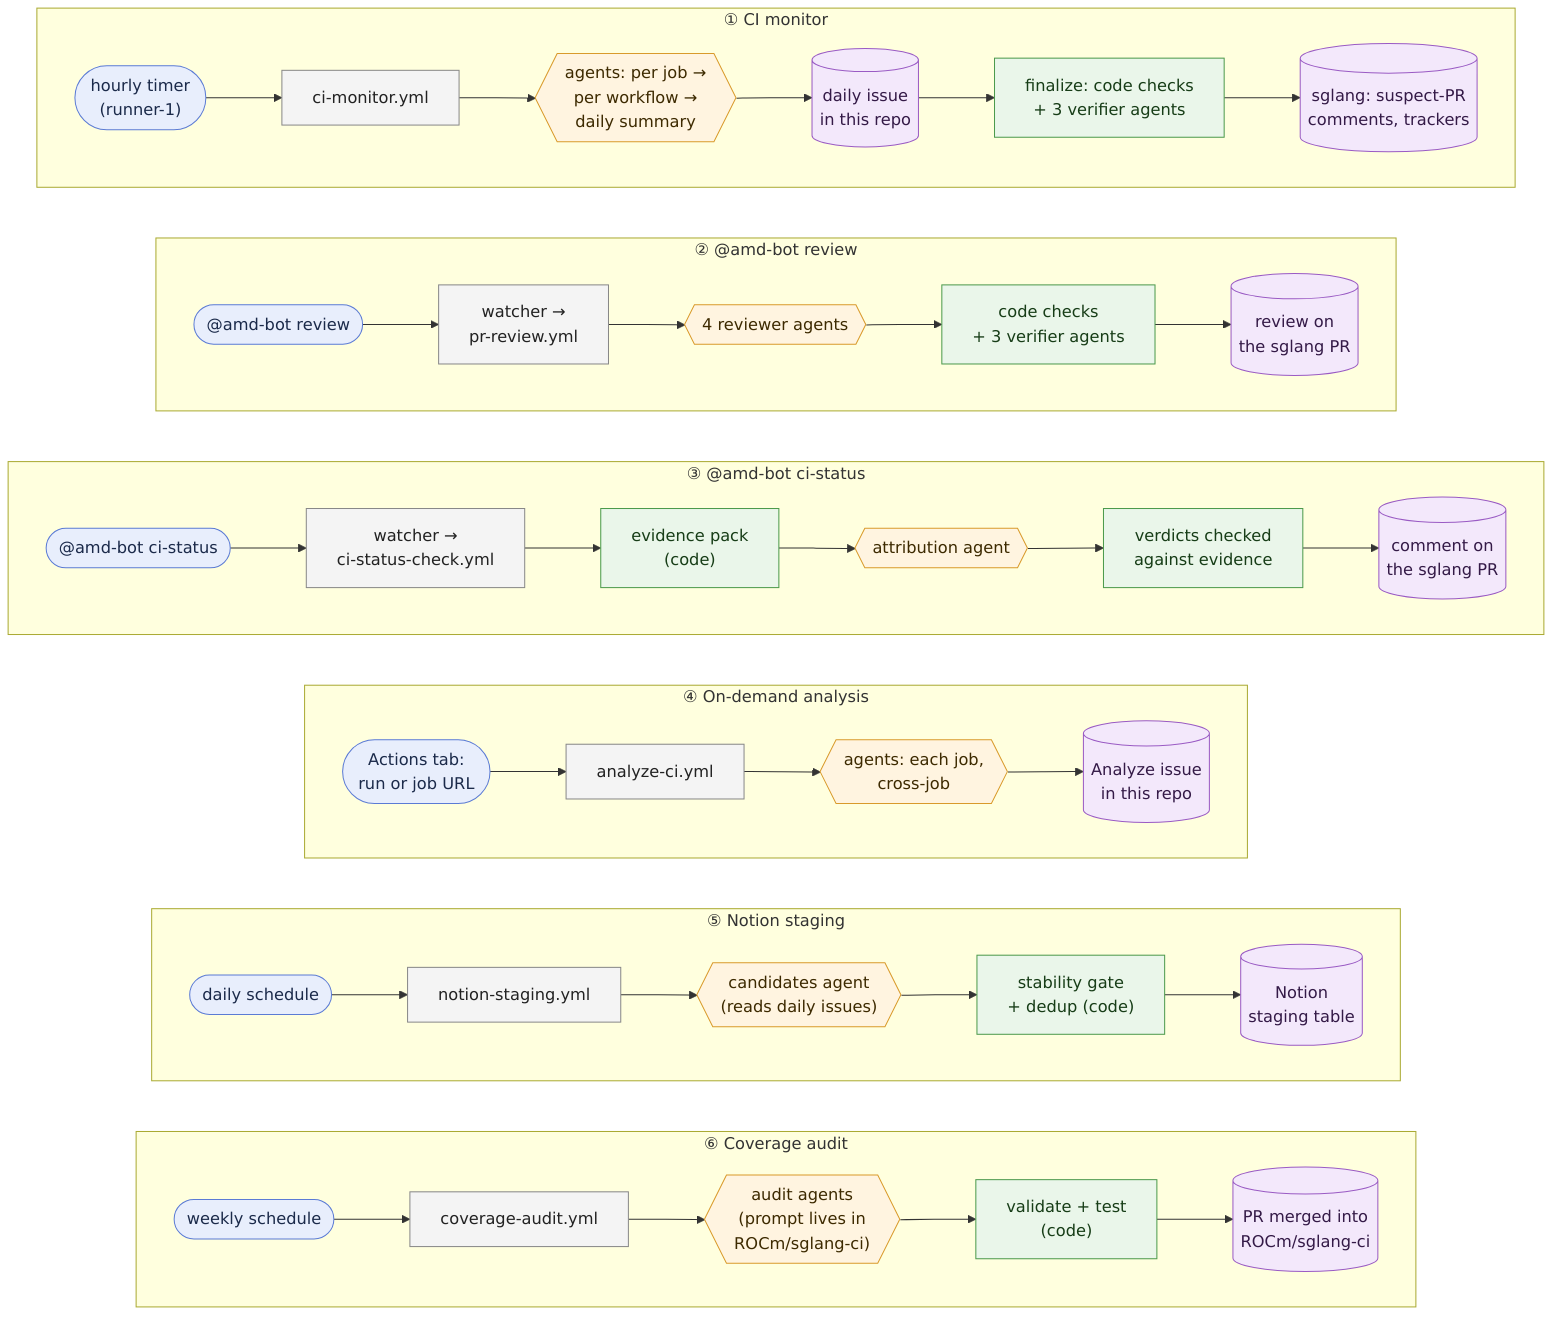
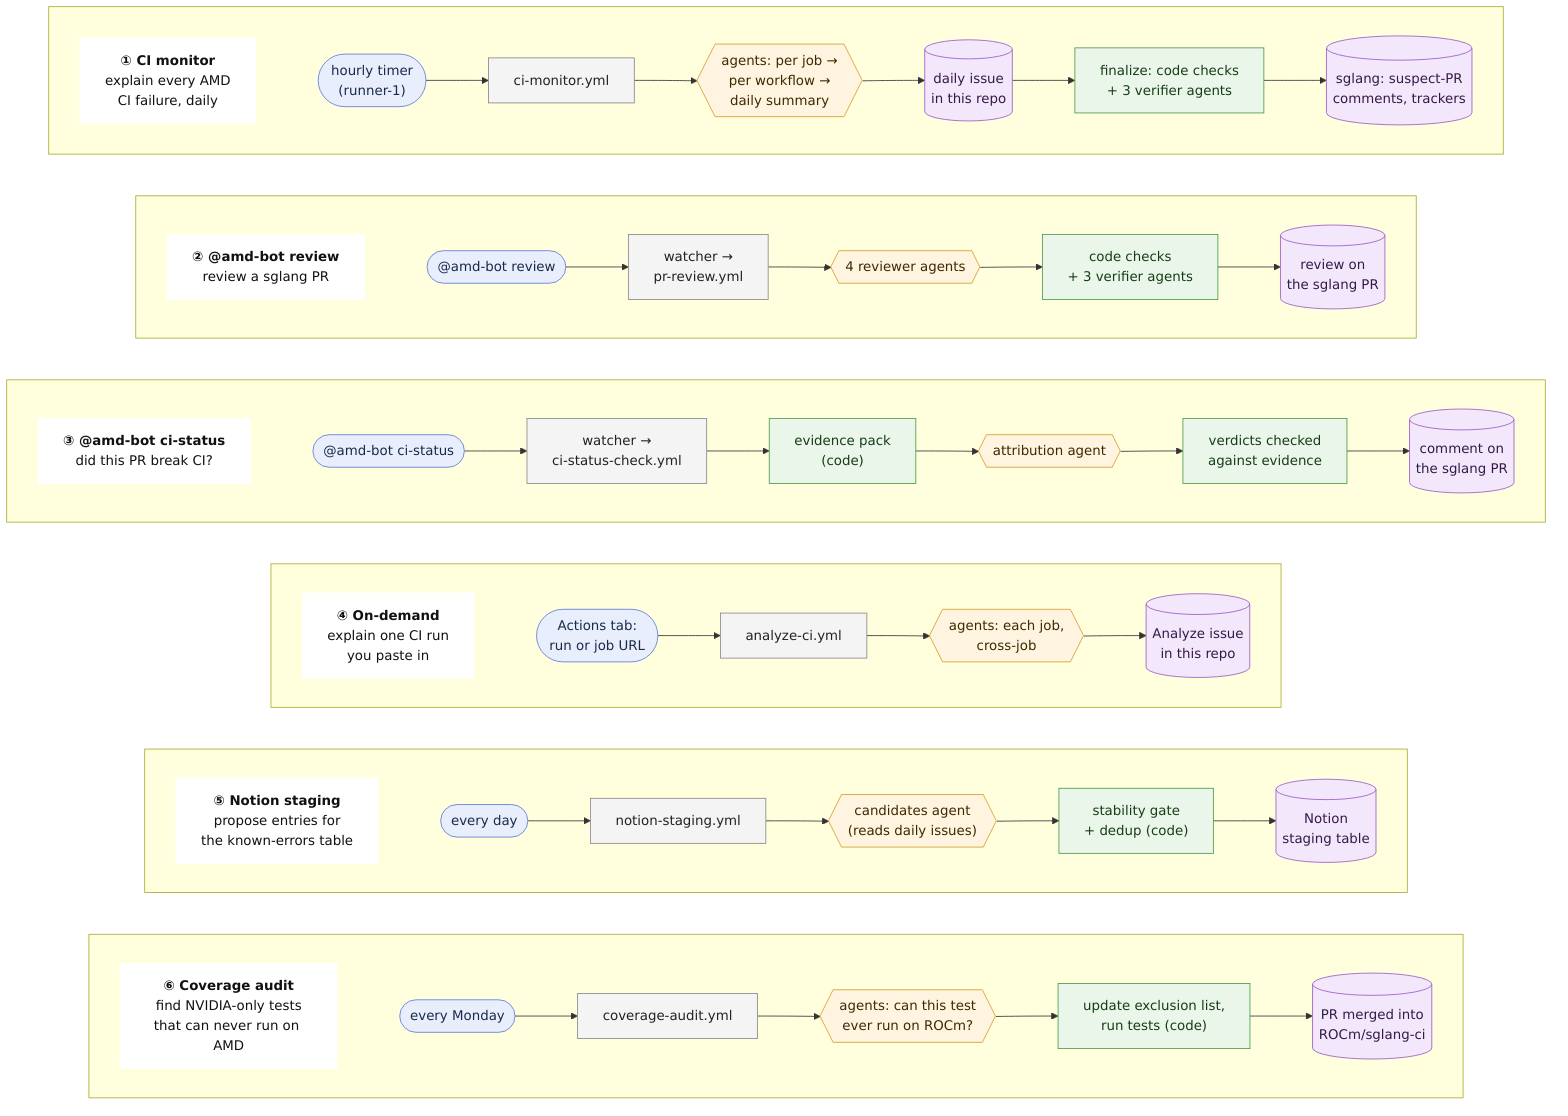
Say what each lane is for in the diagram, and lead the coverage audit with its purpose
Lane titles named features without saying what they do ("Coverage audit",
"weekly schedule"). Each lane now starts with a bold box: the feature and,
in a line, its purpose. Subgraph titles could not carry this: Mermaid wraps
them at a fixed width over the boxes. README §5.9 now opens with why the
coverage audit exists before how and where it runs.

Changed region(s): [[0.0, 0.0, 1.0, 1.0]]

diff --git a/README.md b/README.md
@@ -18,7 +18,7 @@ This README is the map of the repo: what each part does and why. Implementation 
 
 ## 1. The big picture
 
-Each feature is one lane, read left to right: what starts it, which workflow runs, where the LLM is used, what code checks it, and where the result goes.
+Each feature is one lane. The bold box on the left says what it is for; the rest reads left to right: what starts it, which workflow runs, where the LLM is used, what code checks it, and where the result goes.
 
 ![The bot's features as lanes: trigger → workflow → LLM agents → code gate → output](docs/architecture.png)
 
@@ -347,7 +347,18 @@ The agent never receives the Notion token. Manual runs default to `dry-run`.
 
 ### 5.9 Coverage exclusion audit
 
-[`coverage-audit.yml`](.github/workflows/coverage-audit.yml) runs here only because these runners can reach the gateway; its code, prompt and ledger live in ROCm/sglang-ci (`upstream_ci/coverage_audit/`). Weekly, it decides which NVIDIA-only tests can never run on ROCm, and opens and merges (`--admin`) a PR adding them to `AMD_EXCLUSION_REASONS`. That keeps the AMD-vs-NVIDIA coverage number on ROCm/sglang-ci's `/coverage` page honest.
+**Purpose.** Keep the AMD test-coverage number honest.
+- ROCm/sglang-ci's `/coverage` page lists the sglang tests that run on NVIDIA CI but not on AMD CI, and computes AMD coverage from that list.
+- Some of those tests can never run on AMD (CUDA-only kernels, NVIDIA-only features). They are not real gaps, and counting them understates coverage and sends people after tests that should not be ported.
+
+**Flow** ([`coverage-audit.yml`](.github/workflows/coverage-audit.yml), every Monday):
+1. Find the tests that newly appeared in the gap list.
+2. Agents read each test file and decide whether it can ever run on ROCm, and why.
+3. Code validates the answers and adds the never-on-ROCm tests to `AMD_EXCLUSION_REASONS`.
+4. It runs ROCm/sglang-ci's tests, and checks that the gap list shrank by exactly those files.
+5. It opens a PR in ROCm/sglang-ci and merges it (`--admin`).
+
+It runs in this repo only because these runners can reach the LLM gateway. Its code, prompt and ledger live in ROCm/sglang-ci (`upstream_ci/coverage_audit/`).
 
 It is the most isolated job in this repo:
 - it works in `$RUNNER_TEMP`;
